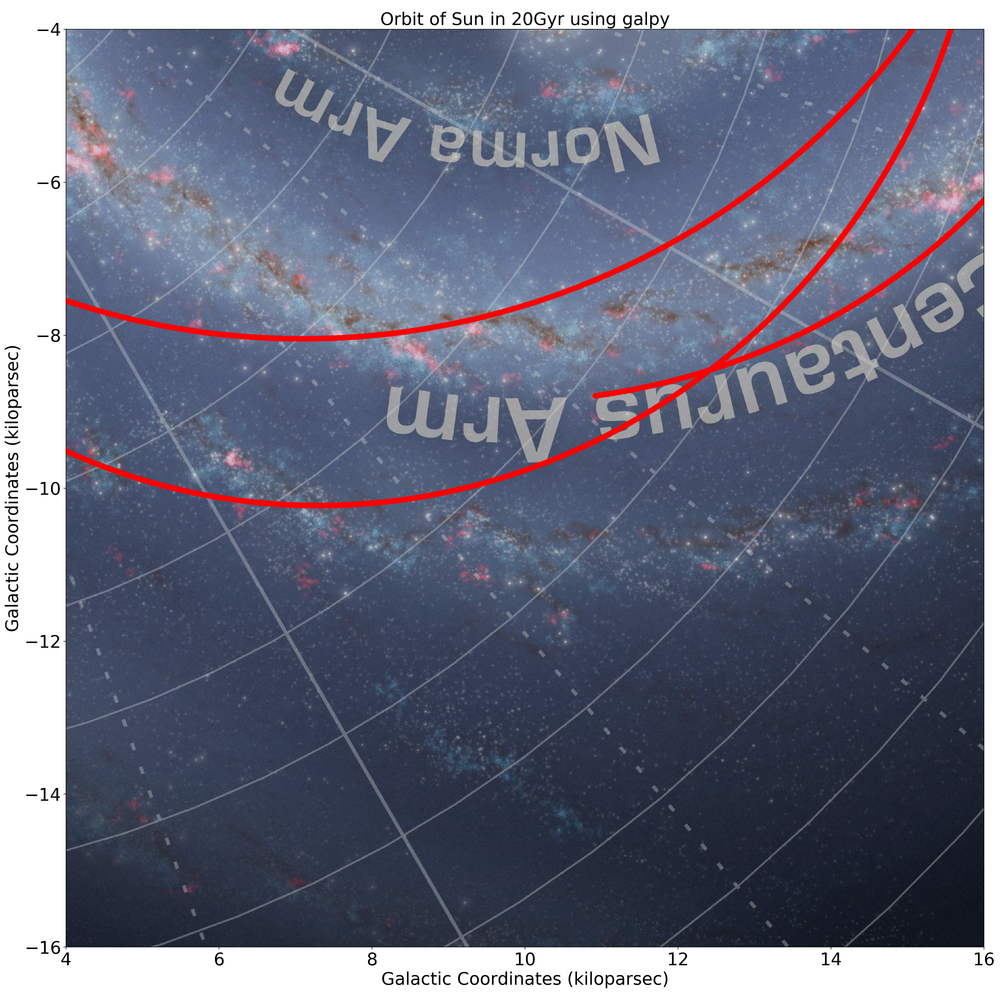
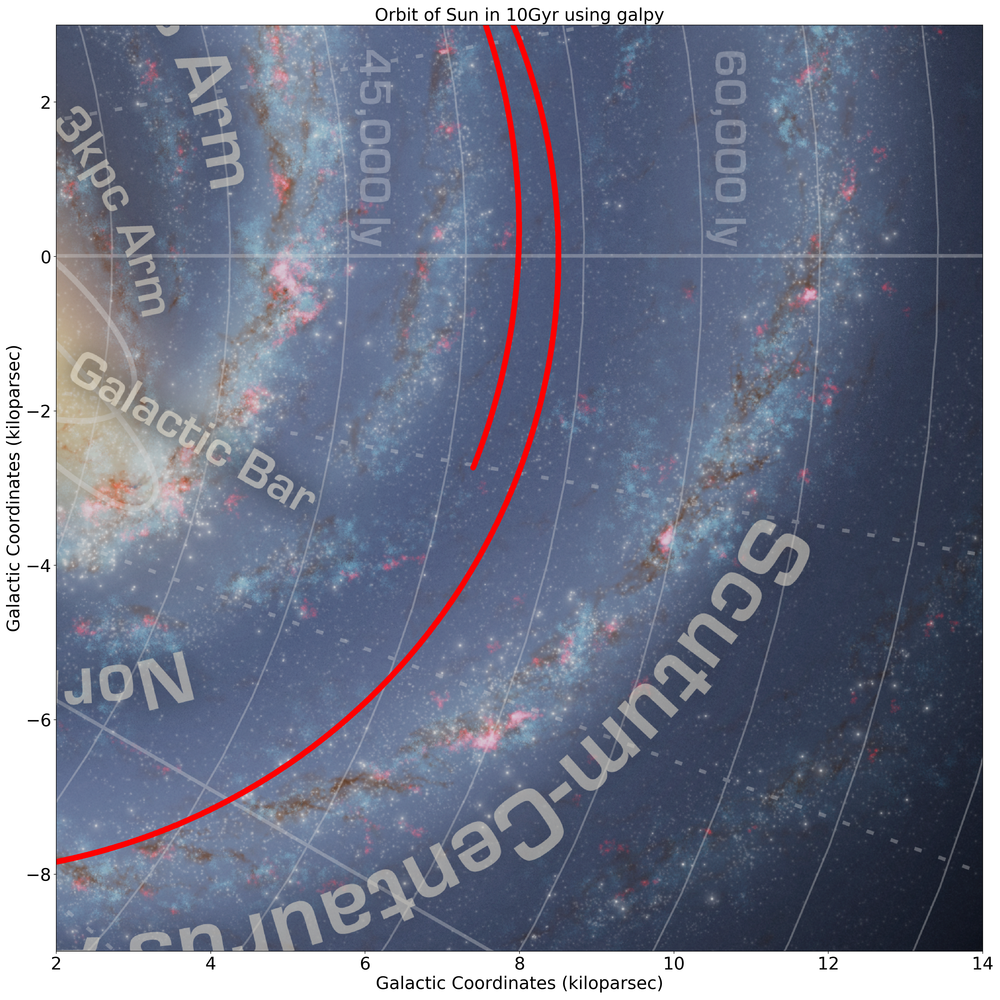
fix wrong Sun orbit

diff --git a/mw_plot/mw_plot.py b/mw_plot/mw_plot.py
@@ -144,6 +144,10 @@ class MWPlot:
         # extract a correct area of the image according to the center and radius provided
         img, coord_english, ext = self.images_read()
 
+        # Temporarily correction, will have better solution later
+        if self.coord == 'galactic':
+            x -= 8. * u.kpc
+
         # decide whether we need colorbar or not
         if isinstance(c, list):
             color = c[0]

diff --git a/README.md b/README.md
@@ -93,11 +93,11 @@ from astropy import units as u
 from mw_plot import MWPlot
 
 # Orbit Integration using galpy for the Sun
-op = Orbit([1., 0.1, 1.1, 0., 0.1, 0.], ro=-8., vo=220.)
+op= Orbit([0.,0.,0.,0.,0.,0.], radec=True, ro=8., vo=220.)
 ts = np.linspace(0, 20, 10000)
 op.integrate(ts, MWPotential2014)
-x = op.x(ts) * u.kpc
-y = - op.y(ts) * u.kpc
+x = - op.x(ts) * u.kpc
+y = op.y(ts) * u.kpc
 z = op.z(ts)
 
 # setup a MWPlot instance
@@ -126,9 +126,10 @@ You can turn off the annotation by ``plot_instance.mw_annotation = False``
 
 ![](readme_images/example_plot_2.png)
 
-You can set the center point and radius of the plot. In this case, we set (10, -10) in a galactocentric coordinates
-such that the plot centered at the Sun at the end of 20Gyr orbit, and set the plot radius as 6 kpc to close up. We will
-just set the color to red without color bar title because there is no color bar needed
+You can set the center point and radius of the plot. In this case, we set (16, -3) in galactic coordinates
+such that the plot centered at the Sun at the end of 10Gyr orbit, and set the radius as 6 kpc to close up. We will
+just set the color to red without color bar title because there is no color bar needed. Please notice the plot assumed
+the milkyway is not moving.
 
 ```python
 from galpy.potential import MWPotential2014
@@ -138,8 +139,8 @@ from astropy import units as u
 from mw_plot import MWPlot
 
 # Orbit Integration using galpy for the Sun
-op = Orbit([1., 0.1, 1.1, 0., 0.1, 0.], ro=-8., vo=220.)
-ts = np.linspace(0, 20, 10000)
+op= Orbit([0.,0.,0.,0.,0.,0.], radec=True, ro=8., vo=220.)
+ts = np.linspace(0, 10, 10000)
 op.integrate(ts, MWPotential2014)
 x = op.x(ts) * u.kpc
 y = - op.y(ts) * u.kpc
@@ -151,7 +152,7 @@ plot_instance.unit = u.kpc
 plot_instance.coord = 'galactic'
 
 # Set the center and radius of the plot
-plot_instance.center = (10, -10) * u.kpc
+plot_instance.center = (16, -3) * u.kpc
 plot_instance.radius = 6 * u.kpc
 
 plot_instance.s = 50.0  # make the scatter points bigger
